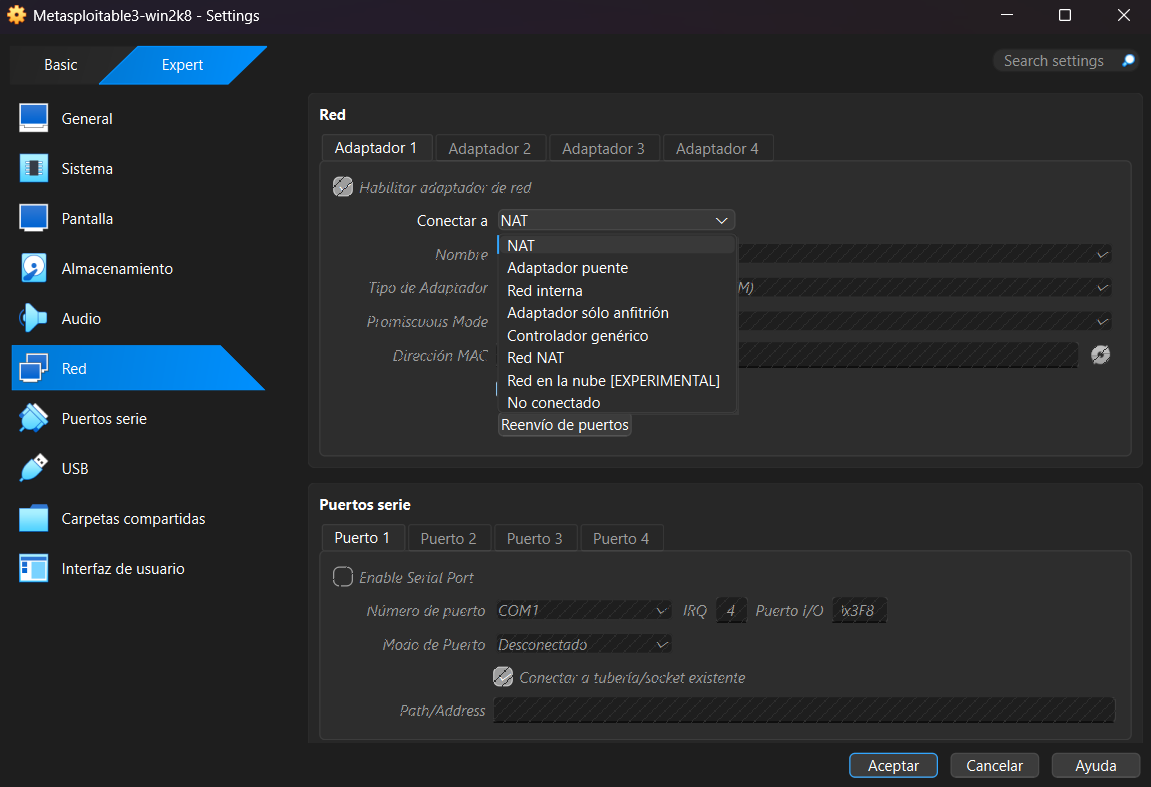
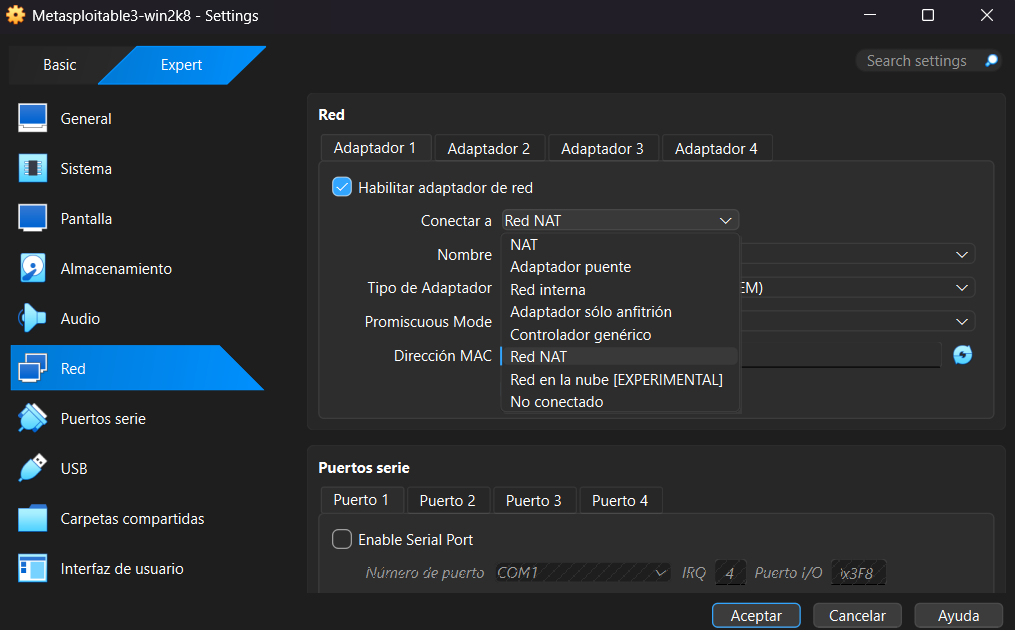
Lab01: document Metasploitable 3 installation-1

diff --git a/_posts/2026-05-24-Lab01-Instalación-Metasploitable.md b/_posts/2026-05-24-Lab01-Instalación-Metasploitable.md
@@ -5,39 +5,49 @@ categories: [lab, setup]
 tags: [metasploitable, Virtualbox(VM), kali]
 ---
 
-# **¿QUÉ ES LA VM METASPLOITABLE 3?**
+               # **¿QUÉ ES LA VM METASPLOITABLE 3?**
 *Este es mi primer post sobre la instalación de la Máquina Virtual Metasploitable 3* 
 
-Metasploitable3: Es una máquina virtual vulnerable utilizada en laboratorios de ciberseguridad para practicar análisis de seguridad y aprender cómo funcionan distintas vulnerabilidades en un entorno controlado. En este laboratorio se utilizó para simular una máquina con fallos de seguridad que puede ser analizada desde Kali Linux. 
+Es una máquina virtual vulnerable utilizada en laboratorios de ciberseguridad para practicar análisis de seguridad y aprender cómo funcionan distintas vulnerabilidades en un entorno controlado. En este laboratorio se utilizó para simular una máquina con fallos de seguridad que puede ser analizada desde Kali Linux. 
 
-La diferencia entre un archivo ".ova" e ".iso" es que el ".ova" contiene una máquina virtual ya configurada y lista para importarse en VirtualBox o VMware, mientras que el ".iso" es una imagen de instalación de un sistema operativo que requiere una configuración manual antes de poder utilizarse.
+La diferencia entre un archivo ***".ova"*** e ***".iso"*** es que el **".ova"** contiene una máquina virtual ya configurada y lista para importarse en VirtualBox o VMware, mientras que el **".iso"** es una imagen de instalación de un sistema operativo que requiere una configuración manual antes de poder utilizarse.
 
-# **Creación de LA VM Metasplooitable 3**
-PASO 1: 
-Metasploitable 3 windows viene como archivo .iso y .ova, en esta guía para crear la máquina virtual se está montando el .ova. Asimismo, dejar por defecto la sección Configuración
+##**Creación de LA VM Metasploitable 3**
+**PASO 1:**
+Metasploitable 3 windows viene como archivo **.iso** y **.ova**, en esta guía para crear la máquina virtual se está montando el .ova. Asimismo, dejar por defecto la sección Configuración
 
-Montando .iso al VM
+Montando **.iso** al VM:
 ![Ima.0.0](/assets/Ima.0.0.md.png)
+
 ![Ima.0.1](/assets/Ima.0.1.md.png)
-[Máquina virtual creada]
+
+Máquina virtual creada
 ![Ima.0.0.0](/assets/Ima.0.0.0.md.png)
 
-# **CONFIGURACIÓN INTERNA DE LA VM METASPLOITABLE 3**
+## **CONFIGURACIÓN INTERNA DE LA VM METASPLOITABLE 3**
 
-PASO 2: Durante la creación de la máquina virtual se seleccionó el sistema operativo Microsoft Windows y la versión Windows Server 2008 de 64 bits, correspondiente a la configuración requerida para Metasploitable 3.
+**PASO 2:** 
+Durante la creación de la máquina virtual se seleccionó el sistema operativo **Microsoft Windows** y la versión Windows Server 2008 de 64 bits, correspondiente a la configuración requerida para Metasploitable 3.
 
 ![Ima.1.1](/assets/Ima.1.1.md.png)
 
-Luego, se procede a configurar el sistema a 2Gb (2048MB), conectar la red a NAT, activar el Hyper-V, como se observa en las siguientes imágenes de forma correspondiente.
+Luego, se procede a configurar el sistema a 2Gb (2048MB), conectar la **red a NAT**, activar el **Hyper-V**, como se observa en las siguientes imágenes de forma correspondiente.
 
 ![Ima.1.2](/assets/Ima.1.2.md.png)
+
+Conexión a la **red NAT**
 ![Ima.1.3](/assets/Ima.1.3.md.png)
 
-Se ingresa en la configuración de Metasploitable, luego a sistema/Aceleración/Paravirtualization Interface seleccionar Hyper-V.
+Se ingresa en la configuración de Metasploitable, luego:
+1. sistema/Aceleración/Paravirtualization Interface 
+2. seleccionar Hyper-V.
 ![Ima.1.4](/assets/Ima.1.4.md.png)
  
-PASO 3: 
-El ajuste de la red de VirtualBox, se realiza ingresando a Archivos/Herramientas/Red/Redes NAT. Si no se visualiza, crear la red NAT (NatNetwork)
+**PASO 3:**
+El ajuste de la red de VirtualBox, se realiza ingresando a:
+1. Archivos/Herramientas/Red/Redes NAT. 
+
+Si no se visualiza, **crear la red NAT (NatNetwork)**
 
 Red NAT creada, con rango de ipv4. 10.0.2.0/24 con el servido DHCP --> HABILITADO]
 ![Ima.1.5](/assets/Ima.1.5.md.png)
@@ -54,15 +64,15 @@ En Kali-Linux
 
 Usamos Host-Only porque crea una red privada y aislada donde solo se comunican el host y las VMs, sin acceso a internet ni a la red física externa. Con NAT las VMs podrían salir a internet pero es más complicado que se vean entre sí, y con Bridged quedarían expuestas directamente en tu red local, lo cual es riesgoso teniendo una máquina vulnerable como Metasploitable. Entonces, Host-Only es la opción más segura y controlada para un laboratorio de pruebas.
 
-# **VERIFICACIÓN DE CONECTIVIDAD**
-PASO 5:
+## **VERIFICACIÓN DE CONECTIVIDAD**
+**PASO 5:**
 ## En Metasploitable
 - Se inicia el VM-Windows.
 - Al aparecer windows, dirigirnos en la barra superior ENTRADA/Teclado/Insertar Ctrl-Alt-Del, y luego arrancará con (Administrador --> usuario: vagrant, contraseña: vagrant)
 
 ![Ima.1.8](/assets/Ima.1.8.md.png)
 
-##En Kali-Linux
+**En Kali-Linux**
 - Se inicia el VM.
 - Al aparecer windows, dirigirnos en la barra superior ENTRADA/Teclado/Insertar Ctrl-Alt-Del, y luego arrancará con (Administrador --> usuario: user, contraseña: user123)
 
@@ -70,12 +80,13 @@ PASO 5:
 
 # **Acción:**
 En cada VM, abrimos sus respectivas terminales y verificamos la conectividad.
-Primero ingresamos *ipconfig (en Metasploitable) e *ip address* (en Kali Linux) para conocer sus direcciones IPv4.
+Primero ingresamos *ipconfig (en Metasploitable) e ip address* (en Kali Linux) para conocer sus direcciones IPv4.
 
 ![Ima.1.10](/assets/Ima.1.10.md.png)
+
 ![Ima.1.11](/assets/Ima.1.11.md.png)
 
 Realizamos ping de uno al otro con las direcciones generadas:
 ![Ima.1.12](/assets/Ima.1.12.md.png)
 
-Ambos muestran un pin exitoso.
+##**Ambos muestran un pin exitoso.**